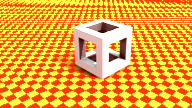
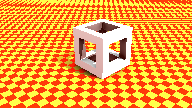
Cleaned up a bit, keep image format for points (i.e. store points in 3D space as H x W x 3 matrix instead of (H*W) x 3).

diff --git a/matlab/project_to_space.m b/matlab/project_to_space.m
@@ -1,26 +1,24 @@
-function XYZ = project_to_space(UVD, camera_pos, camera_rot)
-% input:  N x 3 list of points in the camera plane
-%         3D coordinates of camera and 4D quaternion of camera orientation
-% output: N x 3 list of points in real space
+function XYZ = project_to_space(D)
+% input:  H x W image with depth values
+% output: H x W x 3 list of points in real space
 
-% properties of camera (in Blender Units / meter)
+% properties of camera (in Blender Units / meters)
 focal = 0.035; % 35mm
+width = 0.032; % sensor size = 32mm
 
-% Blender's camera has Y as 'up' and -Z as 'into the scene'
-%XYZ =  [UVD(:,1) -UVD(:,2) -focal*ones(size(UVD,1),1)] .* repmat(UVD(:,3), 1, 3);
-U = UVD(:,1);
-V = UVD(:,2);
-D = UVD(:,3);
+H = size(D, 1);
+W = size(D, 2);
 
-pointsx =  U.*D./focal;
-pointsy =  V.*D./focal;
-pointsz =  D;
+% calculate pixel positions on camera sensor
+[U,V] = meshgrid((1:W) - W/2, (1:H) - H/2);
+U = U * (width / W); % correct for sensor size
+V = V * (width / W);
 
-XYZ = [pointsx pointsy pointsz];
+% actually project points into 3D space
+X = U .* D / focal;
+Y = V .* D / focal;
+Z = D;
 
-% apply camera transformation
-%XYZ = (quat2dcm(camera_rot) * XYZ')' - repmat(camera_pos, size(XYZ,1), 1);
-
-%size(camera_pos)
+XYZ = cat(3, X, Y, Z);
 
 end

diff --git a/matlab/project_to_camera.m b/matlab/project_to_camera.m
@@ -1,0 +1,46 @@
+function [image_c, image_d] = project_to_camera(XYZ, colors)
+% XYZ:    H x W x 3 array of points in 3D space
+% colors: H x W x ? array of colors of these points
+
+focal = 0.035; % 35mm
+width = 0.032; % sensor size = 32mm
+
+H = size(XYZ, 1);
+W = size(XYZ, 2);
+
+U = XYZ(:,:,1).*focal./XYZ(:,:,3);
+V = XYZ(:,:,2).*focal./XYZ(:,:,3);
+D = XYZ(:,:,3);
+
+%plot_pointcloud(cat(3,U,V,ones(H,W)), colors);
+%scatter(reshape(U,[],1), reshape(V,[],1), 'Marker', '.');
+
+image_c = zeros(size(colors));
+image_d = inf(size(XYZ, 1), size(XYZ, 2));
+
+% TODO: don't use for loop
+for i = 1:H
+    for j = 1:W
+        u = int32(U(i,j) / width * W + 0.5*W);
+        v = int32(V(i,j) / width * W + 0.5*H);
+
+        %disp([num2str(U(i,j)) ' ' num2str(V(i,j)) ' --> ' num2str(u) ' ' num2str(v)]);
+
+        if (u < 1 || v < 1 || u > 192 || v > 108)
+            % pixel is out of range of our image
+            continue;
+        end
+
+        if (image_d(v, u) <= D(i, j))
+            % current pixel is behind an already existing one
+            continue;
+        end
+
+        % actually "plot" projected pixel
+        image_c(v, u, :) = colors(i, j, :);
+        image_d(v, u)    = D(i, j);
+    end
+end
+
+image(image_c);
+end

diff --git a/matlab/apply_camera_transformation.m b/matlab/apply_camera_transformation.m
@@ -1,0 +1,33 @@
+function XYZ = apply_camera_transformation(XYZ, translation, rotation)
+% input: XYZ = H x W x 3 array of points in 3D space
+%        translation: 3 dimensional row vector
+%        rotation: [W X Y Z] quaternion
+
+W = size(XYZ,2);
+H = size(XYZ,1);
+
+% repackage points from 2D-array into list
+%points = reshape(XYZ, W*H, [])';
+
+% actualy do the transformation
+%points = quat2dcm(rotation) * points + repmat(translation', 1, W*H);
+
+% repackage points into 2D array of 3D points (i.e. 3 dimensional matrix)
+%XYZ = reshape(points, H, W, []);
+
+
+% TODO: use something less naive here
+rot_matrix = quat2dcm(rotation);
+for y = 1:size(XYZ,1)
+    for x = 1:size(XYZ,2)
+        XYZ(y,x,:) = shiftdim(rot_matrix * shiftdim(XYZ(y,x,:)) + translation', 1);
+    end
+end
+
+%XYZ = repmat(rot_matrix, 1, size(XYZ,2), 1) * XYZ; % TODO - repmat(permute(translation, [2 3 1
+
+% apply camera transformation
+
+%XYZ = (quat2dcm(rotation) * XYZ')' - repmat(translation, size(XYZ,1), 1);
+
+end

diff --git a/matlab/project_img_to_3d.m b/matlab/project_img_to_3d.m
@@ -4,19 +4,20 @@ clear all;
 imgnr = 1;
 
 % initial position of camera
-camera_pos = [ 7.5 -6.5 5.3 ];
+camera_pos = -[ 7.5 -6.5 5.3 ];
 %camera_rot = [ 0.782 0.482 0.213 0.334 ];
 camera_rot = [0.7816000580787659, 0.48170700669288635, 0.21292176842689514, 0.3342514932155609];
 
 
-UVD = read_depth_image(imgnr);
-XYZ = project_to_space(UVD, camera_pos, camera_rot);
-
+depth  = read_depth_image(imgnr);
 colors = read_color_image(imgnr);
+
+XYZ = project_to_space(depth);
+
 
 XYZ = apply_camera_transformation(XYZ, camera_pos, camera_rot);
 
-XYZ = apply_camera_transformation(XYZ, [2 0 0], [1 0 0 0]);
+XYZ = apply_camera_transformation(XYZ, [2 1 0], [1 0.1 0 0]);
 
 XYZ = reverse_camera_transformation(XYZ, camera_pos, camera_rot);
 
@@ -25,3 +26,5 @@ project_to_camera(XYZ, colors);
 
 % lochkamera nachlesen
 % erstmal Euler Winkel
+
+

diff --git a/matlab/read_depth_image.m b/matlab/read_depth_image.m
@@ -1,10 +1,9 @@
-function [UVD] = read_depth_image(nr)
+function D = read_depth_image(nr)
 % output: N x 3 coordinates (U, V are in camera plane, D is distance from
 % camera origin)
 
 % properties of camera (in Blender Units / meter)
 clipping = [0.1 100];
-width = 0.032; % sensor size = 32mm
 
 D = imread(sprintf('depth%04u.png', nr)); % BW, 16bit
 
@@ -13,12 +12,5 @@ D = imread(sprintf('depth%04u.png', nr)); % BW, 16bit
 
 % scale depth
 D = double(D) / 65535 * (clipping(2)-clipping(1)) + clipping(1);
-
-center = size(D)/2;
-[U,V] = meshgrid((1:size(D,2)) - center(2), (1:size(D,1)) - center(1));
-U = U * width / size(D,2); % correct for sensor size
-V = V * width / size(D,2);
-
-UVD = [reshape(U, [numel(U),1]), reshape(V, [numel(V),1]), reshape(D, [numel(D),1])];
 
 end

diff --git a/matlab/plot_pointcloud.m b/matlab/plot_pointcloud.m
@@ -1,8 +1,16 @@
 function plot_pointcloud(XYZ, colors)
+% XYZ:    H x W x 3 array of points in 3D space
+% colors: H x W x 3 array of RGB colors of these points
+
+W = size(XYZ, 2);
+H = size(XYZ, 1);
 
 whitebg('black'); % improve contrast
 
-scatter3(XYZ(:,1), XYZ(:,2), -XYZ(:,3), 1, colors, 'Marker', '.');
+XYZ    = reshape(XYZ,    [W*H, size(XYZ,3)]);
+colors = reshape(colors, [W*H, size(colors,3)]);
+
+scatter3(XYZ(:,1), XYZ(:,2), XYZ(:,3), 1, colors, 'Marker', '.');
 
 xlabel('X'); ylabel('Y'); zlabel('Z');
 pbaspect([1 1 1]); % keep aspect ratio fixed

diff --git a/matlab/read_color_image.m b/matlab/read_color_image.m
@@ -1,9 +1,11 @@
 function RGB = read_color_image(nr)
-% output: N x 3 list of RGB values in range 0 to 1
+% output: H x W x 3 list of RGB values in range 0 to 1
 
 RGB = imread(sprintf('color%04u.png', nr)); % RGB, 8bit / channel
 
-c = numel(RGB(:,:,1));
-RGB = double([reshape(RGB(:,:,1), [c,1]) reshape(RGB(:,:,2), [c,1]) reshape(RGB(:,:,3), [c,1])]) ./ 255;
+%c = numel(RGB(:,:,1));
+%RGB = double([reshape(RGB(:,:,1), [c,1]) reshape(RGB(:,:,2), [c,1]) reshape(RGB(:,:,3), [c,1])]) ./ 255;
+
+RGB = double(RGB) ./ 255;
 
 end

diff --git a/matlab/color_to_intensity.m b/matlab/color_to_intensity.m
@@ -1,11 +1,11 @@
 function I = color_to_intensity(RGB)
-% input:  N x 3 list of RGB values (0-1)
-% output: N x 1 list of intensity values, also in range 0-1
+% input:  H x W x 3 image with RGB values (0-1)
+% output: H x W     image of intensity values, also in range 0-1
 
 % L2 norm
-%I = sqrt(sum(RGB.^2,2));
+%I = sqrt(sum(RGB.^2,3));
 
 % L1 norm, normalized to 0-1
-I = sum(RGB,2)./size(RGB,2);
+I = sum(RGB,3)./size(RGB,3);
 
 end

diff --git a/matlab/reverse_camera_transformation.m b/matlab/reverse_camera_transformation.m
@@ -1,0 +1,12 @@
+function XYZ = reverse_camera_transformation(XYZ, translation, rotation)
+
+% apply camera transformation
+
+rot_matrix = quat2dcm(rotation)'; % inverse of rotation matrix is just transpose
+for y = 1:size(XYZ,1)
+    for x = 1:size(XYZ,2)
+        XYZ(y,x,:) = shiftdim(rot_matrix * (shiftdim(XYZ(y,x,:)) - translation'), 1);
+    end
+end
+
+end

diff --git a/matlab/warp_image.m b/matlab/warp_image.m
@@ -1,0 +1,7 @@
+function warped = warp_image(depth, colors, position, rotation)
+
+XYZ = project_to_space(depth);
+XYZ = apply_camera_transformation(XYZ, position, rotation);
+warped = project_to_camera(XYZ, colors);
+
+end

diff --git a/matlab/read_intensity_image.m b/matlab/read_intensity_image.m
@@ -1,0 +1,6 @@
+function I = read_intensity_image( nr )
+
+I = color_to_intensity(read_color_image(nr));
+
+end
+
